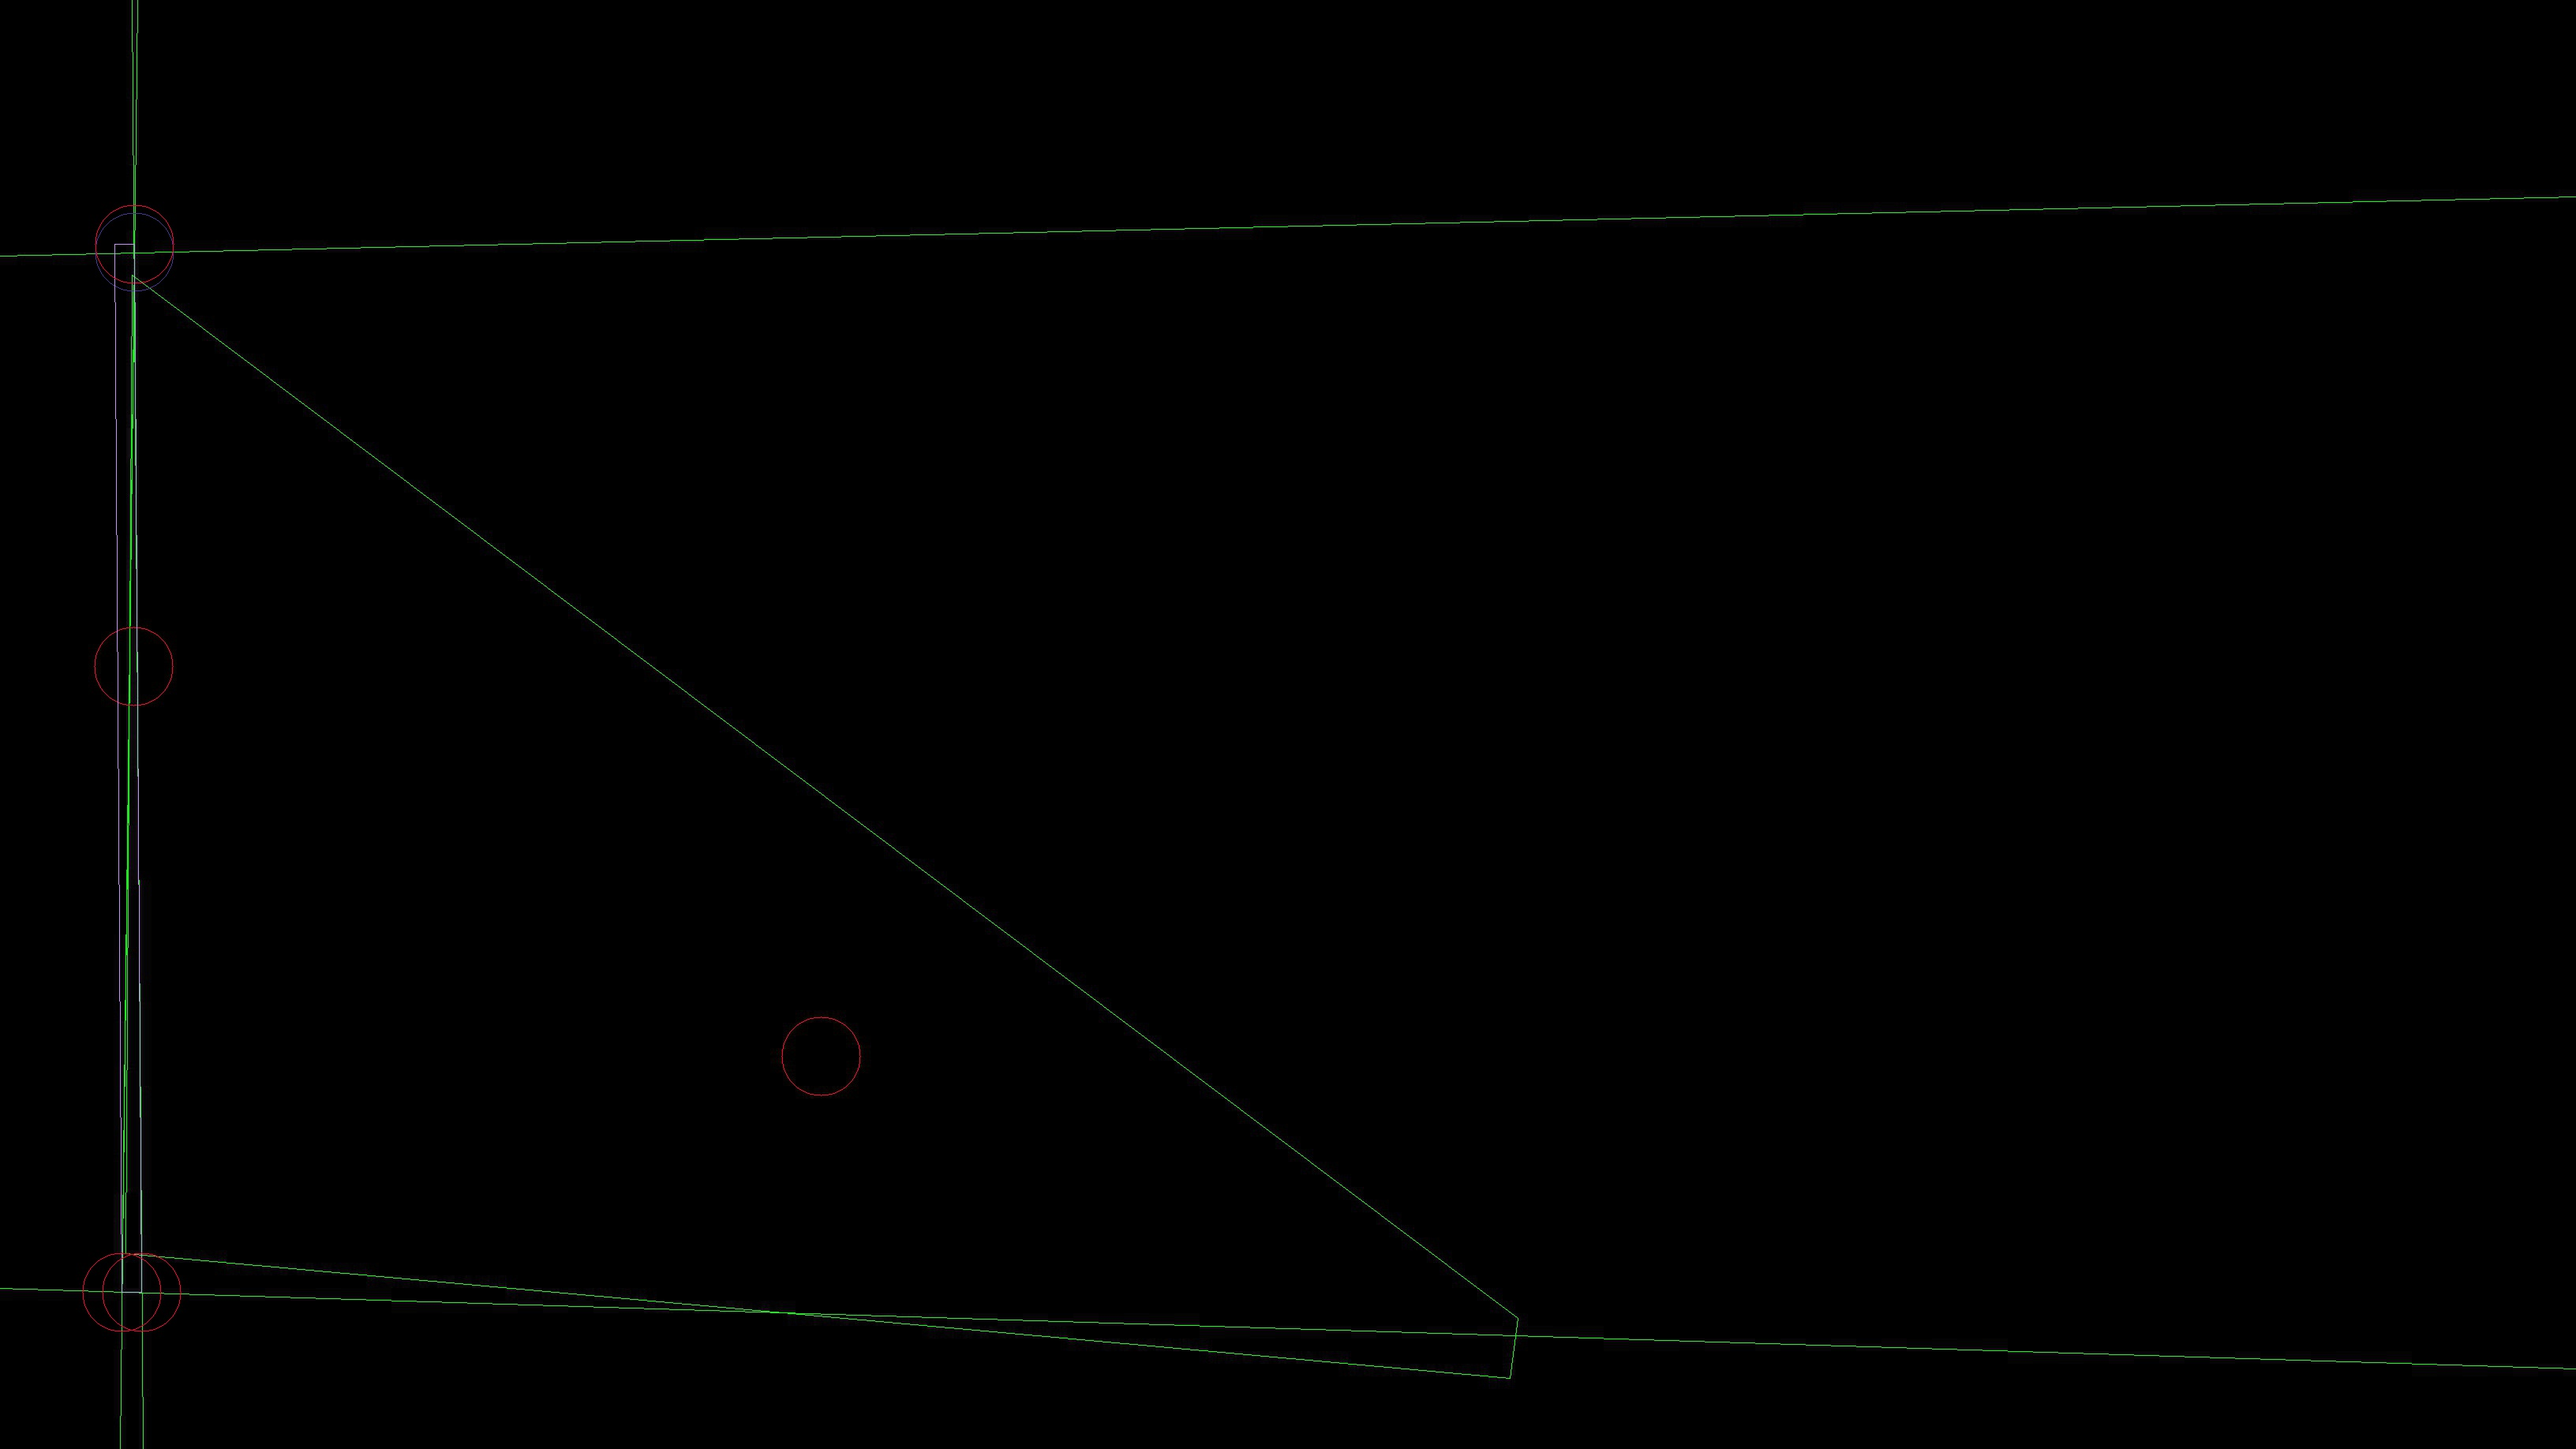
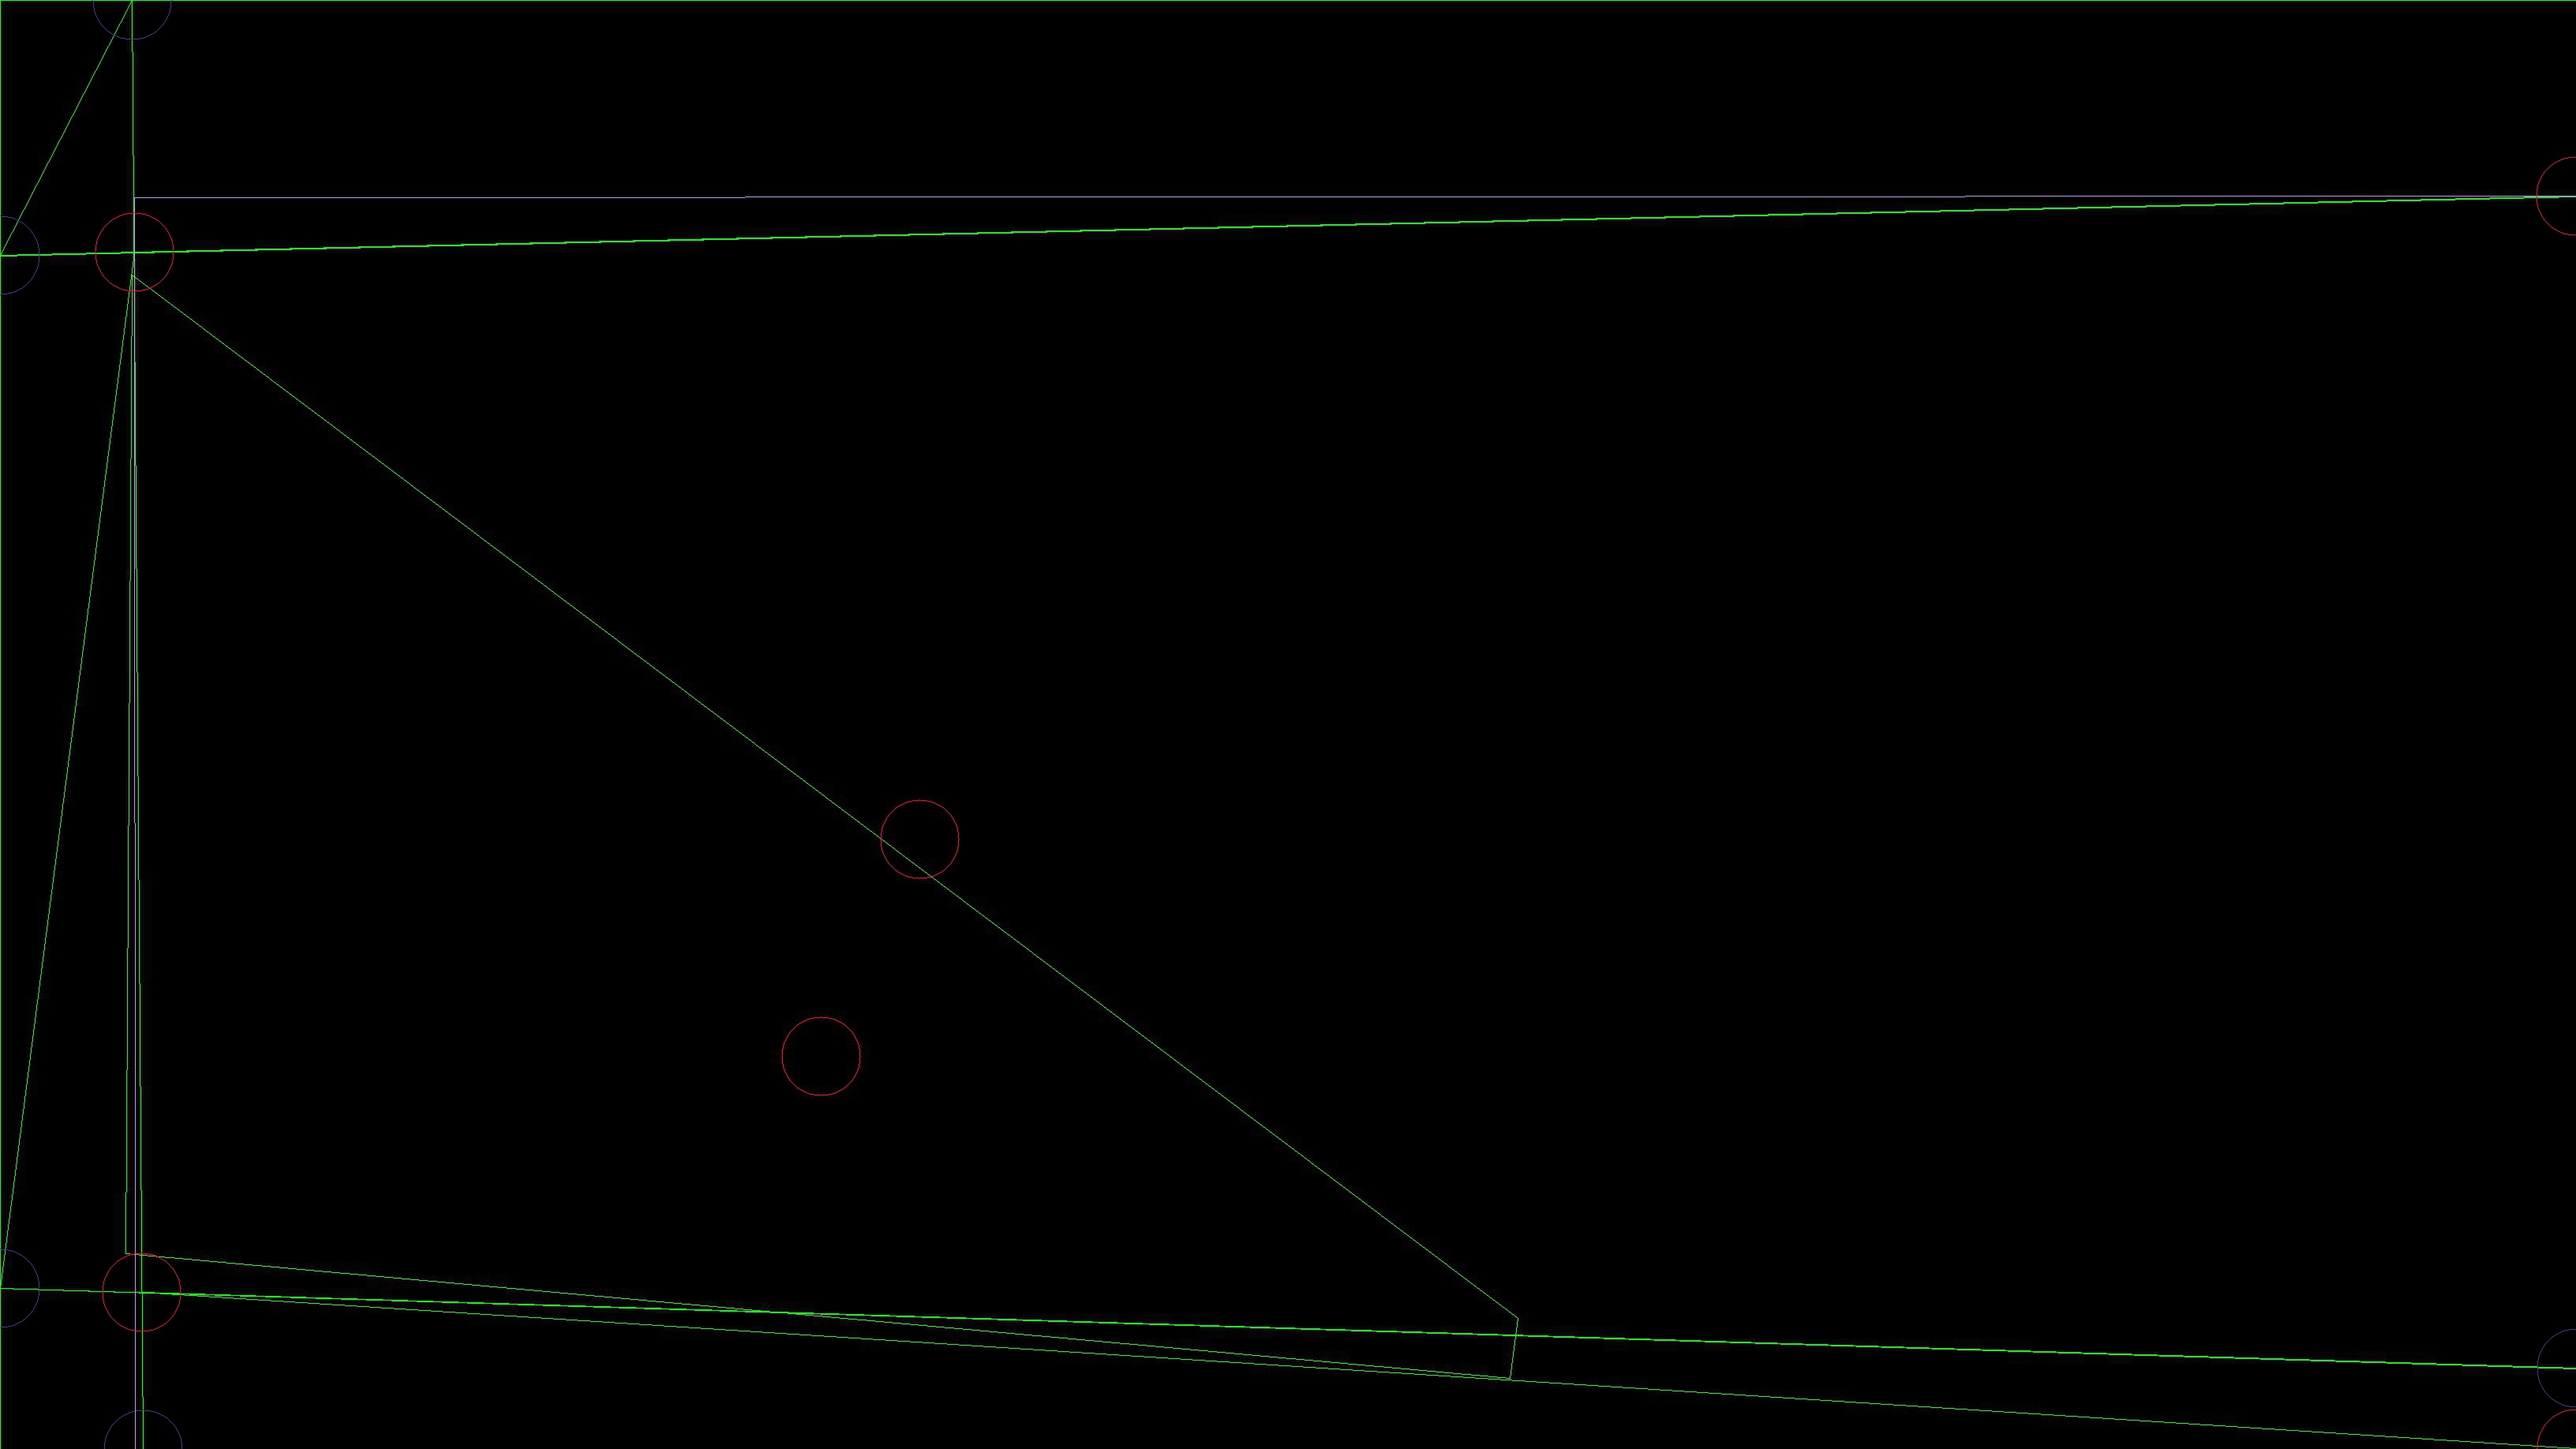
yep! find the place where farthest logic is and refine the logic - if on border of stage and point is NOT the corner...
may the force be with you,

suck Shawn, suck

diff --git a/ocr/longest_closed.cc b/ocr/longest_closed.cc
@@ -25,6 +25,8 @@ using namespace cv;
 using namespace std;
 
 std::vector<cv::Vec4i> lines4intersect;
+std::vector<bool> lines4intersect_is_vert;
+std::vector<Point> p_from_line_vector;
 cv::Point center(0,0);
 Size size_mat;
 
@@ -55,6 +57,13 @@ void reduce_noise_short_lines ( std::vector < std::vector<cv::Point> > &contours
 
 void final_magic_crop_rotate ( Mat mat,  std::vector<cv::Point>& points4 );
 void additional_logic_closest2center ( std::vector<cv::Point>& points4, std::vector<cv::Point>& points40, std::vector<cv::Point>& points41, int tl_br_index );
+
+bool lines4intersect_validate(bool is_vert, Point p_from_line, Vec4i vec4i);
+
+bool is_vertical ( float angle ) {
+  /*between 45 degrees trough 90 degrees to 135 degrees is considered vertical*/
+  return angle > 45.0 && angle < 135.0;
+}
 
 //credits: http://answers.opencv.org/question/9511/how-to-find-the-intersection-point-of-two-lines/
 bool intersection(Point2f o1, Point2f p1, Point2f o2, Point2f p2, Point2f &r){
@@ -789,8 +798,9 @@ void get_closest_diagonal ( Rect rect,  Mat_<float> angles, std::vector<cv::Poin
   float x = line_result[2];
   float y = line_result[3];
 
-  // TODO - go on from here...
-  std::cout << "\n§§§§§§§\navg angles: " << mean(angles)[0] << "\npoint of line: " << Point(x,y) << std::endl;
+  float angle_avg = mean(angles)[0];
+  // DONE - go on from here...
+  std::cout << "\n§§§§§§§\navg angles: " << angle_avg << "\npoint of line: " << Point(x,y) << std::endl;
 
   float x0, y0, x1, y1;
 
@@ -803,9 +813,45 @@ void get_closest_diagonal ( Rect rect,  Mat_<float> angles, std::vector<cv::Poin
   // std::cout << "\nvec4f: " << line_result << ',' << ",\nline points: " << Point(x0,y0)  << ',' << Point(x1,y1) << std::endl;
 
   // going on from intersect and gathering 4 points, yep!
-  cv::line ( pic, Point(x0, y0), Point(x1, y1), cv::Scalar(0,64,255), 2, CV_AA );
   // global chap - fill it with lines
-  lines4intersect.push_back ( cv::Vec4i(x0,y0,x1,y1) );
+  // lines4intersect.push_back ( cv::Vec4i(x0,y0,x1,y1) );
+  if ( lines4intersect_validate( is_vertical(angle_avg), Point(x,y), Vec4i(x0,y0,x1,y1) ) ) {
+  }
+  cv::line ( pic, Point(x0, y0), Point(x1, y1), cv::Scalar(0,64,255), 2, CV_AA );
+}
+
+// TODO - find the place where farthest logic is and refine the logic - if on border of stage and point is NOT the corner... yep!
+bool lines4intersect_validate ( bool is_vert, Point p_from_line, Vec4i vec4i ) {
+
+  if ( !lines4intersect_is_vert.size() ) {
+    lines4intersect.push_back(vec4i); /*add line*/
+    p_from_line_vector.push_back(p_from_line); /*add point from line*/
+    lines4intersect_is_vert.push_back(is_vert); /*add bool is vert*/
+    return false;
+  }
+
+  int min_deviation = is_vert ? size_mat.width : size_mat.height;
+  std::cout << "min dev: " << min_deviation << std::endl;
+  min_deviation = min_deviation/5; /*this is the minimum distance needed between lines with same direction*/
+  int x_or_y, x_or_y2;
+  for ( int i=0; i<(int)lines4intersect.size(); ++i ) {
+
+    if ( lines4intersect_is_vert[i]==is_vert) { /*found it*/
+      x_or_y = is_vert ? p_from_line_vector[i].x : p_from_line_vector[i].y;
+      x_or_y2 = is_vert ? p_from_line.x : p_from_line.y;
+
+      if ( abs(x_or_y-x_or_y2)<min_deviation ) {
+        std::cout << "busting: " << x_or_y << ',' << x_or_y2 << ',' << min_deviation << std::endl;
+        return false;
+      }
+      break;
+    }
+  }
+
+  lines4intersect.push_back(vec4i); /*add line*/
+  p_from_line_vector.push_back(p_from_line); /*add point from line*/
+  lines4intersect_is_vert.push_back(is_vert); /*add bool is vert*/
+  return true;
 }
 
 Mat coord_clusters_munge ( Size size,
@@ -891,7 +937,7 @@ double get_max_deviation(Size size, double angle_center, bool is_vert){
 // TODO - go on from here - think whether to clean noise before or after grouping... - maybe after for now?
 Mat coord_clusters ( Size size, std::vector < std::vector<cv::Point> > contours, Mat_<float> angles, double angle_center, std::vector<double> len_contours ){
 
-  bool is_vert = angle_center > 45.0 && angle_center < 135.0; /*between 45 degrees trough 90 degrees to 135 degrees is considered vertical*/
+  bool is_vert = is_vertical(angle_center);
   std::vector<cv::Point2f> points;
   for(int i=0; i<(int)contours.size(); ++i){
 
